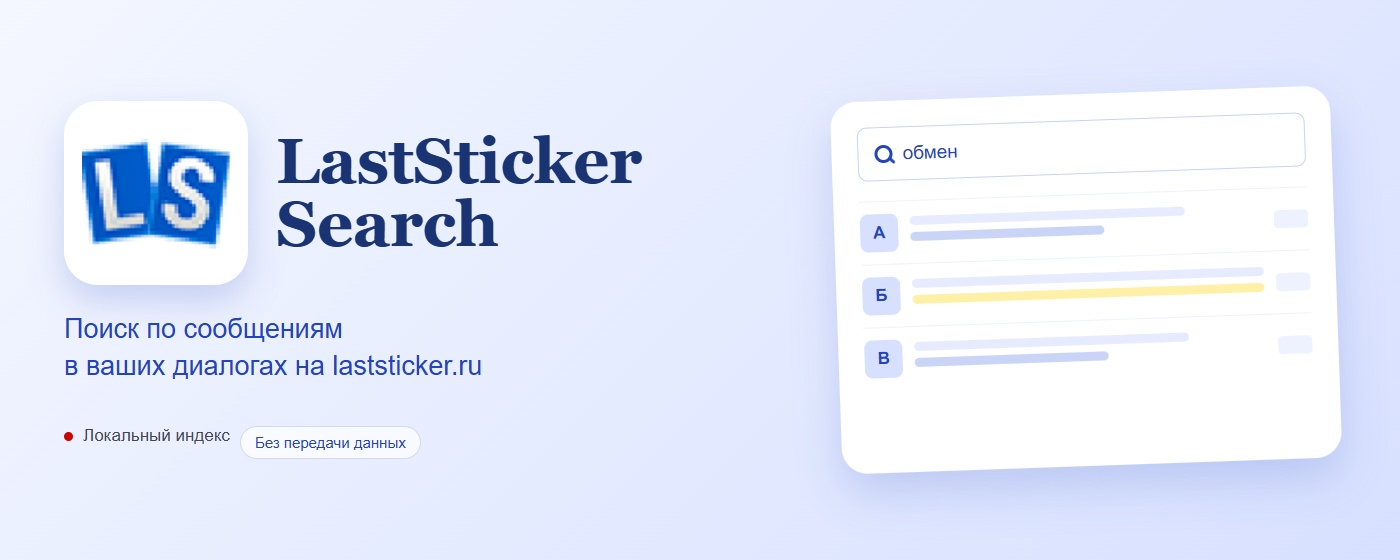
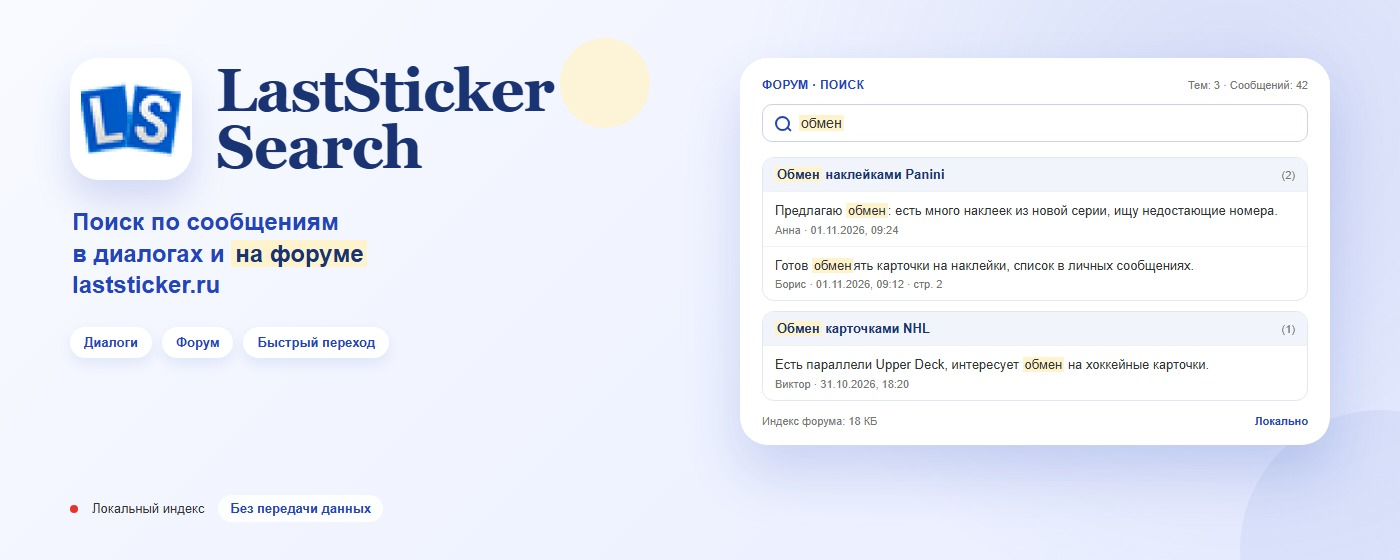
docs: обновить social preview и OG-изображения
- новый social-preview 1280x640 с диалогами и форумом
- обновлены marquee и promo в docs
- добавлены OG/Twitter meta и актуальные описания

diff --git a/docs/index.html b/docs/index.html
@@ -3,8 +3,17 @@
 <head>
   <meta charset="utf-8">
   <meta name="viewport" content="width=device-width, initial-scale=1">
-  <title>LastSticker Search — поиск по диалогам на laststicker.ru</title>
-  <meta name="description" content="Локальная индексация и поиск сообщений в ваших диалогах на laststicker.ru. Данные хранятся только в браузере.">
+  <title>LastSticker Search — поиск по диалогам и форуму laststicker.ru</title>
+  <meta name="description" content="Локальная индексация и поиск сообщений в ваших диалогах и на форуме laststicker.ru. Данные хранятся только в браузере.">
+  <meta property="og:type" content="website">
+  <meta property="og:title" content="LastSticker Search — поиск по диалогам и форуму laststicker.ru">
+  <meta property="og:description" content="Локальная индексация и поиск сообщений в диалогах и на форуме laststicker.ru. Данные хранятся только в браузере.">
+  <meta property="og:url" content="https://lavandii.github.io/laststicker-search/">
+  <meta property="og:image" content="https://lavandii.github.io/laststicker-search/assets/social-preview.png">
+  <meta name="twitter:card" content="summary_large_image">
+  <meta name="twitter:title" content="LastSticker Search — поиск по диалогам и форуму laststicker.ru">
+  <meta name="twitter:description" content="Локальная индексация и поиск сообщений в диалогах и на форуме laststicker.ru.">
+  <meta name="twitter:image" content="https://lavandii.github.io/laststicker-search/assets/social-preview.png">
   <link rel="icon" href="assets/icon128.png" type="image/png">
   <link rel="stylesheet" href="style.css">
 </head>
@@ -26,7 +35,7 @@
 
   <main>
     <section class="hero container">
-      <img class="hero-image" src="assets/marquee.jpg" alt="LastSticker Search — поиск по сообщениям в диалогах">
+      <img class="hero-image" src="assets/marquee.jpg" alt="LastSticker Search — поиск по сообщениям в диалогах и на форуме">
       <div class="hero-copy">
         <div>
           <p class="eyebrow">Chrome extension · Manifest V3</p>

diff --git a/store/listing-ru.md b/store/listing-ru.md
@@ -127,6 +127,12 @@ LastSticker Search — расширение для Chrome, которое пом
 
 Загрузить в дашборде: **Store listing → Graphic assets → Marquee promo tile**.
 
+## Social preview
+
+Файл: `store/social-preview-1280x640.png` — 1280×640 PNG, 24-бит без альфа-канала.
+
+Загрузить в GitHub: **Settings → Social preview** репозитория.
+
 ## Скриншоты
 
 Файлы (1280×800, 24-бит PNG, без альфа-канала):
